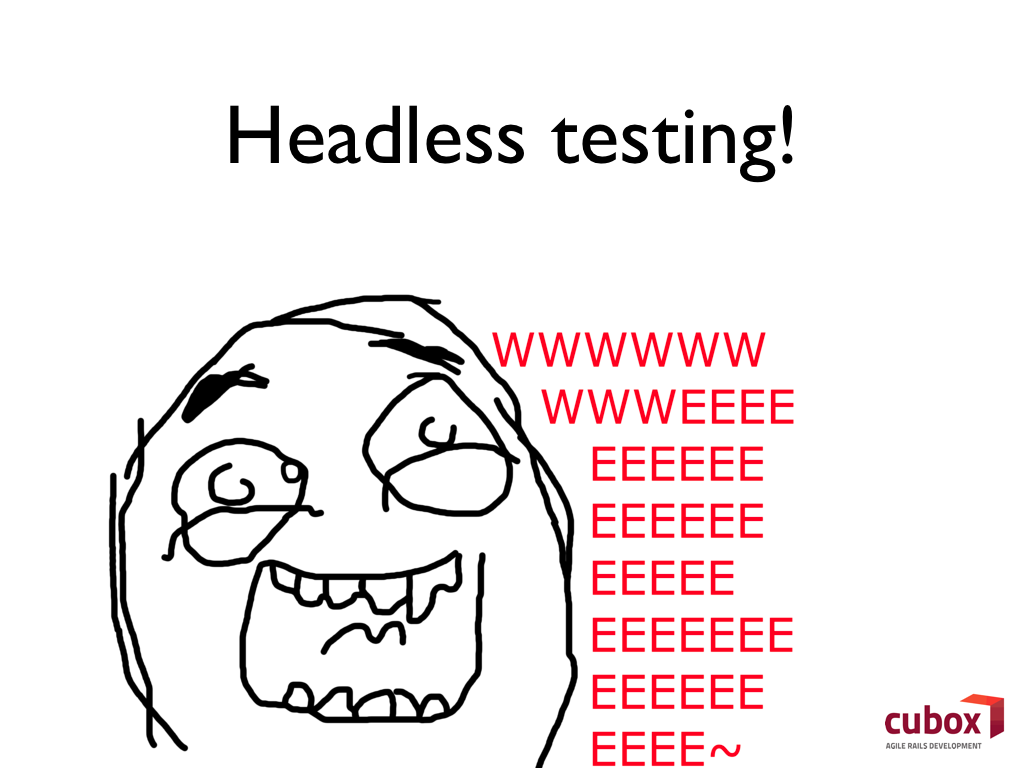
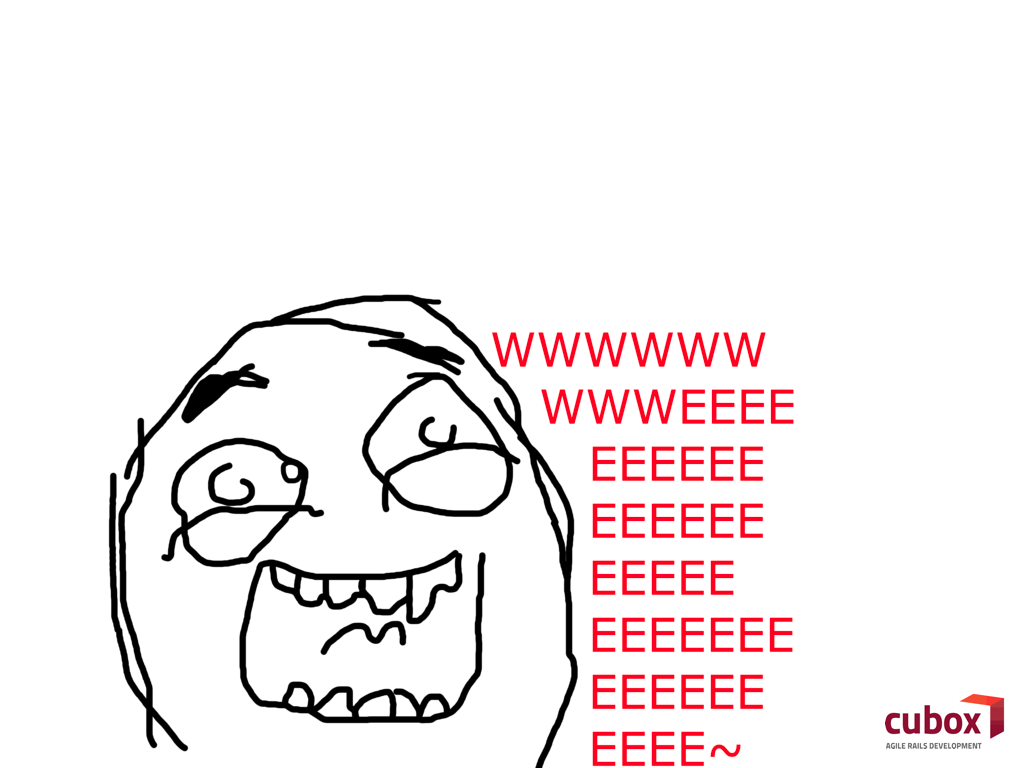
last polishing

Changed region(s): [[0.2188, 0.125, 0.7812, 0.25]]

diff --git a/custom.css b/custom.css
@@ -5,7 +5,7 @@
 h1, h2 {
    font-weight: bold;
    color: #DD0000;
-   text-shadow: #BBB 3px 3px 3px;
+   text-shadow: #CCC 3px 3px 2px;
 }
 
 .main header {
@@ -66,7 +66,6 @@ h1, h2 {
 }
 
 .bullets.with-title h1 {
-   font-weight: normal;
 }
 
 .resources {
@@ -78,6 +77,7 @@ h1, h2 {
 
 pre {
    font-size: 28px;
+   padding-left: 50px;
 }
 code {
    font-family: monospace;
@@ -86,4 +86,8 @@ code {
 .meme img {
    position: absolute;
    top: 0;
+}
+
+.meme.wee {
+   background: #FFF url(/image/mike/images/wee.png) bottom right;
 }

diff --git a/mike/05_mike.md b/mike/05_mike.md
@@ -1,4 +1,4 @@
-<!SLIDE center main>
+<!SLIDE center main chicken>
 <header style="font-size: 34px;">
   <a href="http://github.com/nu7hatch/mike">http://github.com/nu7hatch/mike</a>
 </header>
@@ -6,11 +6,8 @@
   Introducing Mike!<br />
   <small>The headless chicken</small>
 </h1>
-<footer>
-  chicken...
-</footer>
 
-<!SLIDE center main>
+<!SLIDE center main chicken>
 <header style="font-size: 34px;">
   <a href="http://github.com/nu7hatch/mike">http://github.com/nu7hatch/mike</a>
 </header>
@@ -18,14 +15,11 @@
   Introducing Mike!<br />
   <small>The headless <span style="background: #AADDFF; padding: 2px 8px;">browser</span></small>
 </h1>
-<footer>
-  chicken...
-</footer>
 
 <!SLIDE center>
 <h1 style="font-size: 55px; line-height: 85px;">
 Browser with testing API in C++<br />
-+<br />
+<small style="color: #555; font-size: 60px;">+</small><br />
 Native extensions in Ruby, Python
 </h1>
 
@@ -59,18 +53,50 @@ Native extensions in Ruby, Python
   <li>Multiple Windows</li>
 </ul>
 
+<!SLIDE with-title>
+# Windows
+
+    @@@ruby
+    browser = Browser.new
+    page = browser.open("http://cuboxsa.com");
+    page.click_link("Blog");
+    
+    assert_equal "http://cuboxsa.com",
+                 browser.windows[0].url
+    assert_equal "http://cuboxsa.com/blog",
+                 browser.windows[1].url
+   
 <!SLIDE center bullets>
 <ul>
   <li class="blur">Multiple Windows</li>
   <li>Frames support</li>
 </ul>
 
+<!SLIDE with-title>
+# Frames
+
+    @@@ruby
+    page = browser.open("http://cuboxsa.com/frames.html")
+    page.frames[1]
+    page.frames["side"]
+    ...
+    
 <!SLIDE center bullets>
 <ul>
   <li class="blur">Multiple Windows</li>
   <li class="blur">Frames support</li>
   <li>Basic user interaction</li>
 </ul>
+
+<!SLIDE with-title>
+# User interaction
+
+    @@@ruby
+    page = browser.open("http://cuboxsa.com")
+    page.click_link("Contact");
+
+    assert_equal "http://cuboxsa.com/contact.html", 
+                 page.url
 
 <!SLIDE center bullets>
 <ul>
@@ -80,6 +106,25 @@ Native extensions in Ruby, Python
   <li>Basic JavaScript execution</li>
 </ul>
 
+<!SLIDE with-title>
+# JavaScript
+
+    @@@html
+    <html>
+    <body>
+      <script>
+        var foo = 1;
+        foo += 10;
+      </script>
+    </body>
+    </html>
+
+<!SLIDE with-title>
+# JavaScript
+    
+    @@@ruby
+    assert_equal 11, page.evaluate("foo").to_i
+
 <!SLIDE center bullets>
 <ul>
   <li class="blur">Multiple Windows</li>
@@ -88,6 +133,14 @@ Native extensions in Ruby, Python
   <li class="blur">Basic JavaScript execution</li>
   <li>Alerts/popups mocking</li>
 </ul>
+
+<!SLIDE with-title>
+# Alerts
+
+    @@@ruby
+    browser.expect_alert("Hello world!")
+    browser.expect_confirm("Are you sure?", true)
+    browser.open("http://cuboxsa.com/alerts.html")
 
 <!SLIDE center bullets>
 <ul>

diff --git a/mike/03_v8.md b/mike/03_v8.md
@@ -21,10 +21,10 @@
 
 <!SLIDE center bullets incremental>
 <ul>
-  <li>Precise generational garbage collection</li>
+  <li>Precise generational GC</li>
 </ul>
 
-<!SLIDE with-title hl_lines=2>
+<!SLIDE with-title>
 # Garbage collection
 
     @@@cpp
@@ -42,8 +42,20 @@
   <li>Neat memory model</li>
 </ul>
 
-<!SLIDE center>
-memory model here...
+<!SLIDE center bullets incremental with-title>
+# Memory model
+
+* 32-bit tagged pointers
+* Object pointers references <strong>hidden class</strong>, <strong>properties</strong>, and <strong>elements</strong>
+* Instant access to small, 31-bit integers
+
+<!SLIDE with-title center>
+# Memory model
+
+<div style="font-size: 50px;">
+  <code>XXX..XXX<strong>0</strong></code> - integer<br />
+  <code>XXX..XX<strong>01</strong></code> - object
+</div>
 
 <!SLIDE center bullets>
 <ul>
@@ -52,8 +64,46 @@ memory model here...
   <li>Hidden classes behind the scenes</li>
 </ul>
 
-<!SLIDE center>
-hidden classes explained...
+<!SLIDE with-title>
+# Hidden classes
+
+    @@@javascript
+    function Point(x,y)
+    {
+      this.x = x;
+      this.y = y;
+    }
+    
+    var p1 = new Point(0,1);
+    var p2 = new Point(2,3);
+
+<!SLIDE center with-title>
+<img src="images/hc3.png" />
+# Hidden classes
+
+<!SLIDE center with-title>
+<img src="images/hc4.png" />
+# Hidden classes
+
+<!SLIDE center with-title>
+<img src="images/hc5.png" />
+# Hidden classes
+
+<!SLIDE center with-title>
+<img src="images/hc6.png" />
+# Hidden classes
+
+<!SLIDE center with-title>
+<img src="images/hc7.png" />
+# Hidden classes
+
+<!SLIDE center with-title>
+<img src="images/hc8.png" />
+# Hidden classes
+
+<!SLIDE center with-title>
+<img src="images/hc9.png" />
+# Hidden classes
 
 <!SLIDE center bullets>
 <ul>

diff --git a/mike/01_intro.md b/mike/01_intro.md
@@ -1,17 +1,34 @@
+<!SLIDE center>
+
+<!SLIDE center>
+# Chris Kowalik
+
+<!SLIDE center>
+# @nu7hatch
+
+<!SLIDE center>
+# @nu7
+
+<!SLIDE center>
+# Polska!
+
 <!SLIDE center main>
-<header>
-  RubyKaigi 2011
-</header>
+<h1>
+  <small>Montevideo</small><br />
+  <span style="color: #88BBEE;">Uruguay</span>
+</h1>
+
+<!SLIDE center>
+Cubox logo
+
+<!SLIDE center main>
 <h1>
   <small>JavaScript integration testing with</small><br />
   V8 engine &amp; Ruby
 </h1>
-<footer>
-  Chris Kowalik <small>/ @nu7hatch</small>
-</footer>
 
-<!SLIDE center meme>
-<img src="images/wee.png" />
+<!SLIDE center meme wee with-title>
+# Headless browser!
 
 <!SLIDE center>
 # Why?

diff --git a/mike/06_resources.md b/mike/06_resources.md
@@ -1,6 +1,3 @@
-<!SLIDE center>
-# Questions?
-
 <!SLIDE center main>
 <header>
   <h1 style="color: black">Thank you!</h1>
@@ -16,6 +13,12 @@
   </div>
 </footer>
 
+<!SLIDE center main>
+<h1>Thanks for showoff!</h1>
+<footer>
+  <a href="http://github.com/.../showoff">http://github.com/.../showoff</a>
+</footer>
+
 <!SLIDE center bullets with-title>
 # Resources
 
@@ -24,3 +27,6 @@
 * [http://v8.googlecode.com](http://v8.googlecode.com)
 * [http://chromium.org](http://chromium.org)
 * [http://github.com/joyent/node](http://github.com/joyent/node)
+
+<!SLIDE center>
+# Questions?

diff --git a/mike/02_first_plan.md b/mike/02_first_plan.md
@@ -18,7 +18,7 @@
 <!SLIDE center>
 <h1 style="font-size: 70px; line-height: 100px;">
 Fast V8 extension for Ruby<br />
-+<br />
+<small style="color: #555; font-size: 60px;">+</small><br />
 Browser implementation
 </h1>
 
